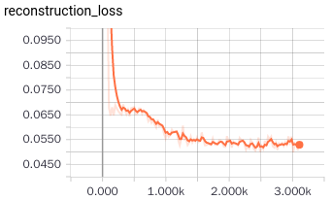
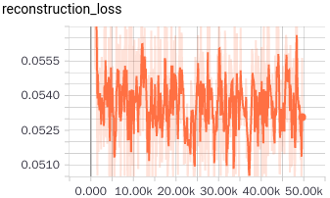
Update the training loss figs & test acc

diff --git a/utils.py b/utils.py
@@ -1,4 +1,5 @@
 import os
+import scipy
 import numpy as np
 import tensorflow as tf
 
@@ -46,6 +47,28 @@ def get_batch_data():
                                   allow_smaller_final_batch=False)
 
     return(X, Y)
+
+
+def save_images(imgs, size, path):
+    '''
+    Args:
+        imgs: [batch_size, image_height, image_width]
+        size: a list with tow int elements, [image_height, image_width]
+        path: the path to save images
+    '''
+    imgs = (imgs + 1.) / 2  # inverse_transform
+    return(scipy.misc.imsave(path, mergeImgs(imgs, size)))
+
+
+def mergeImgs(images, size):
+    h, w = images.shape[1], images.shape[2]
+    imgs = np.zeros((h * size[0], w * size[1], 3))
+    for idx, image in enumerate(images):
+        i = idx % size[1]
+        j = idx // size[1]
+        imgs[j * h:j * h + h, i * w:i * w + w, :] = image
+
+    return imgs
 
 
 if __name__ == '__main__':

diff --git a/eval.py b/eval.py
@@ -1,9 +1,9 @@
-from glob import glob
 import numpy as np
 import tensorflow as tf
 
 from config import cfg
 from utils import load_mnist
+from utils import save_images
 from capsNet import CapsNet
 
 
@@ -27,5 +27,10 @@ if __name__ == '__main__':
                 orgin_imgs = np.reshape(teX[start:end], (cfg.batch_size, -1))
                 squared = np.square(recon_imgs - orgin_imgs)
                 reconstruction_err.append(np.mean(squared))
+
+                if i % 5 == 0:
+                    imgs = np.reshape(recon_imgs, (cfg.batch_size, 28, 28, 1))
+                    size = 6
+                    save_images(imgs[0:size * size, :], [size, size], 'results/test_%03d.png' % i)
             print('test acc:')
-            print(1. - np.mean(reconstruction_err))
+            print((1. - np.mean(reconstruction_err)) * 100)

diff --git a/README.md b/README.md
@@ -68,12 +68,24 @@ $ python eval.py --is_training False
 
 
 ## Results
-Code is still running, here some results:
+Results for the 'wrong' version(#8) :
 
+- training loss
 ![total_loss](imgs/total_loss.png)
 
 ![margin_loss](imgs/margin_loss.png)
 ![reconstruction_loss](imgs/reconstruction_loss.png)
+
+- test acc
+
+Epoch | 49 | 51
+:-----|:--:|
+test_acc|94.69|94.71
+
+![](test_000.png)
+![](test_025.png)
+![](test_045.png)
+
 
 ### TODO:
 - Finish the MNIST version of capsNet (progress:90%)
